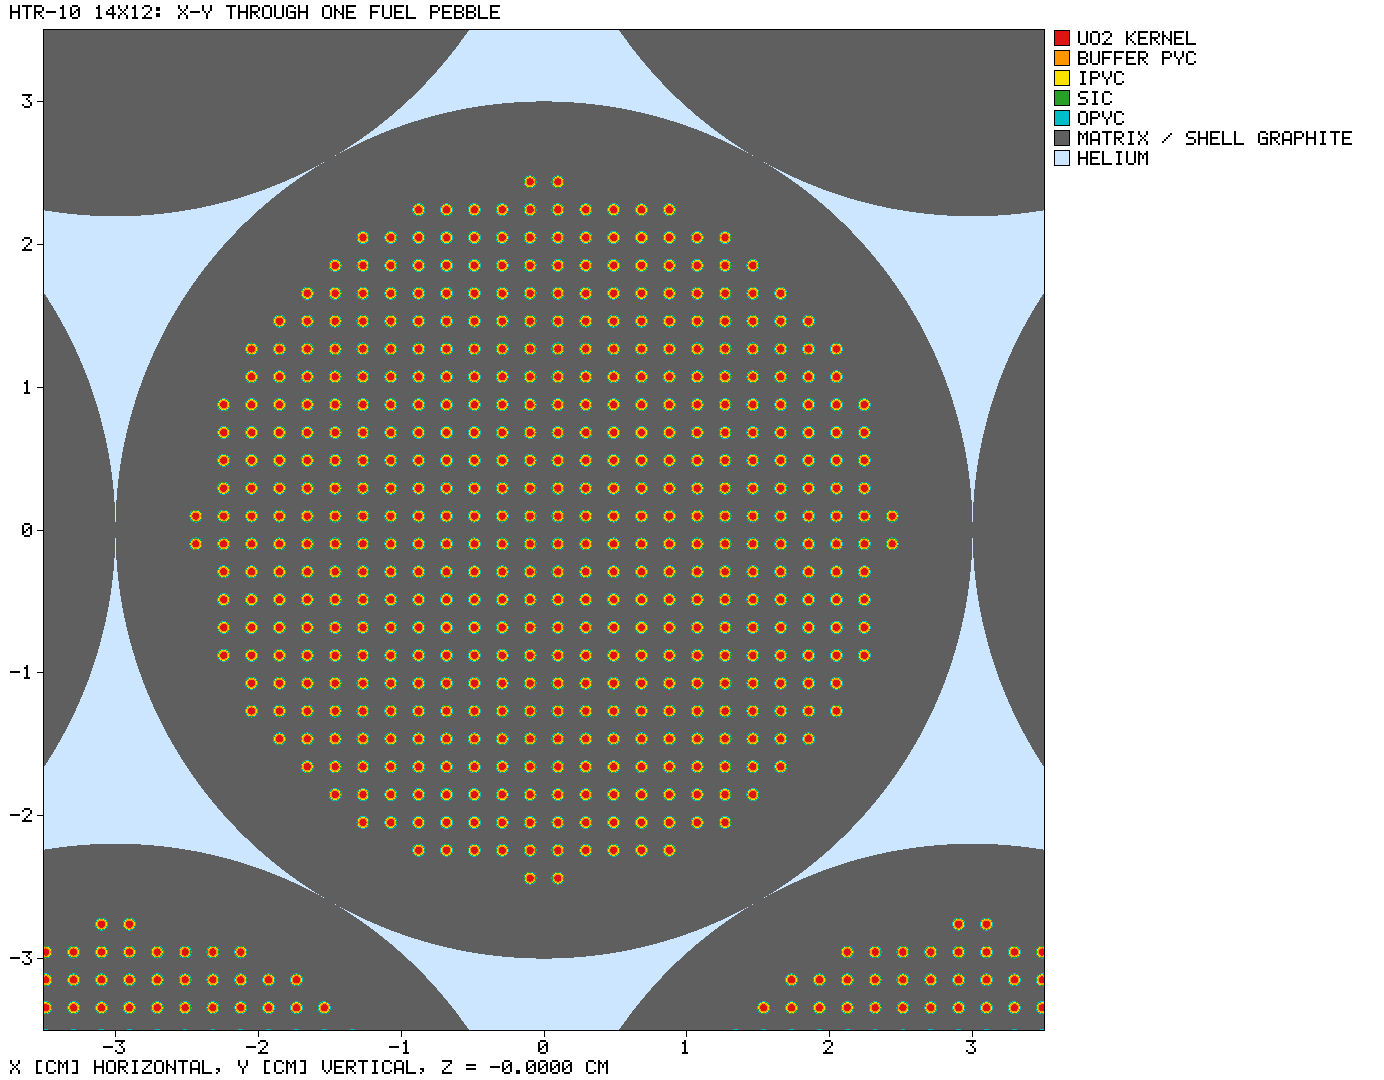
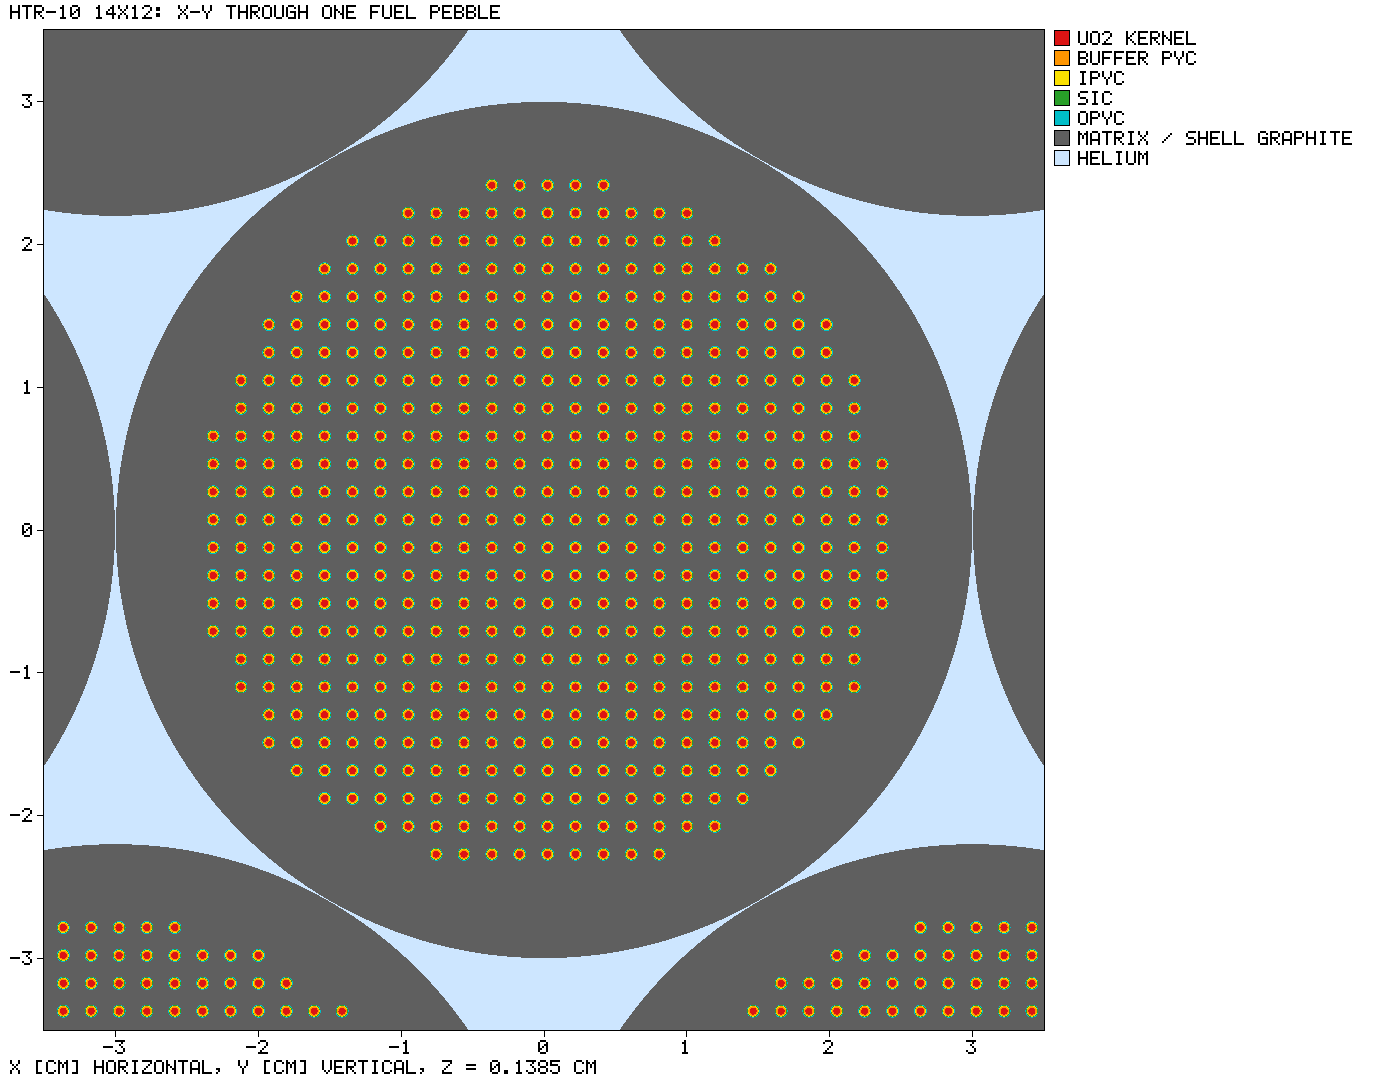
fix(nee_soon): geometry images find a kernel off the pebble mid-plane; zooms redrawn for the 8335 TRISO grid (#430)
With the generic TRISO offset no kernel lies on the pebble mid-plane, so the
2-D search skipped the zoomed images and left the committed ones showing the old
grid. The search now steps z through one TRISO pitch. A particle is located at
(0.0254, 0.0722, 0.1385) cm = (0.13, 0.37, 0.71) x 0.1951235 cm, as built.

Claude-Session: https://claude.ai/code/session_012qgX47fwybgAuf2wEiRvBu

API-Usage-Since-Last-Commit: total=3989373 in=16 out=3622 cache_read=3979195 cache_write=6540 source=session-transcript
API-Usage-Session-Cumulative: total=3759097978

diff --git a/crates/nee_soon/examples/htr10_geometry_images.rs b/crates/nee_soon/examples/htr10_geometry_images.rs
@@ -78,10 +78,17 @@ fn find_fuel_pebble(g: &Geometry, near: Position) -> Option<(Position, Position)
     // offsets (`TRISO_OFFSET` in `core_model`; [0.13, 0.37, 0.71] since
     // 2026-10-01), so a single line through a pebble centre can miss every
     // kernel.
+    // Since 2026-10-01 the offset is generic in z too, so the pebble's
+    // mid-plane may cut no kernel: step z through one TRISO pitch (~0.195 cm)
+    // as well.
     let u = Direction::new(0.0, 0.0, 1.0);
-    for j in 0..40 {
+    for (kz, j) in (0..20).flat_map(|kz| (0..40).map(move |j| (kz, j))) {
         for i in 0..4000 {
-            let p = Position::new(near.x + 0.01 * i as f64, near.y + 0.01 * j as f64, near.z);
+            let p = Position::new(
+                near.x + 0.01 * i as f64,
+                near.y + 0.01 * j as f64,
+                near.z + 0.01 * kz as f64,
+            );
             if let Some(path) = g.locate(p, u, SurfaceToken::NONE) {
                 let n = path.levels.len();
                 if path.material == Some(mat::KERNEL) && n >= 3 {
